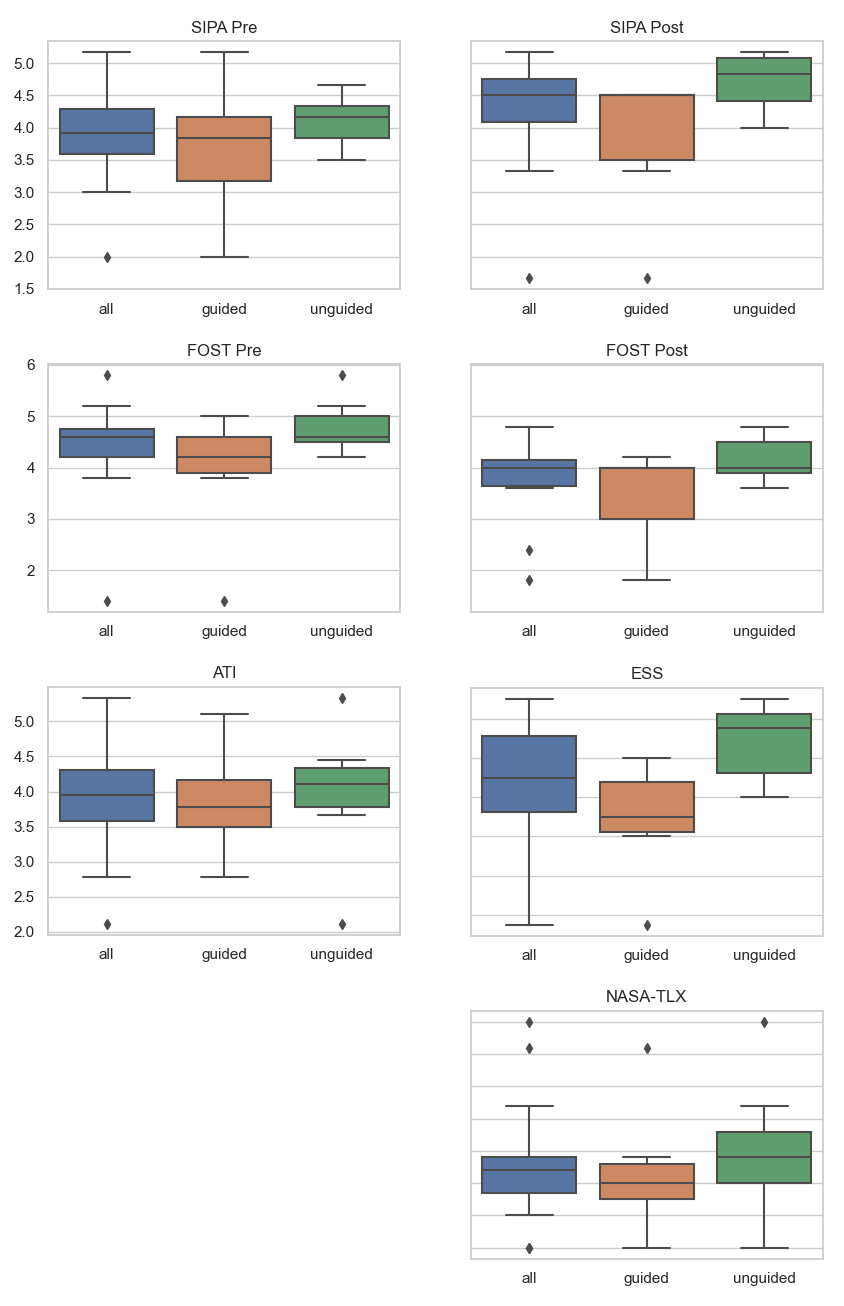
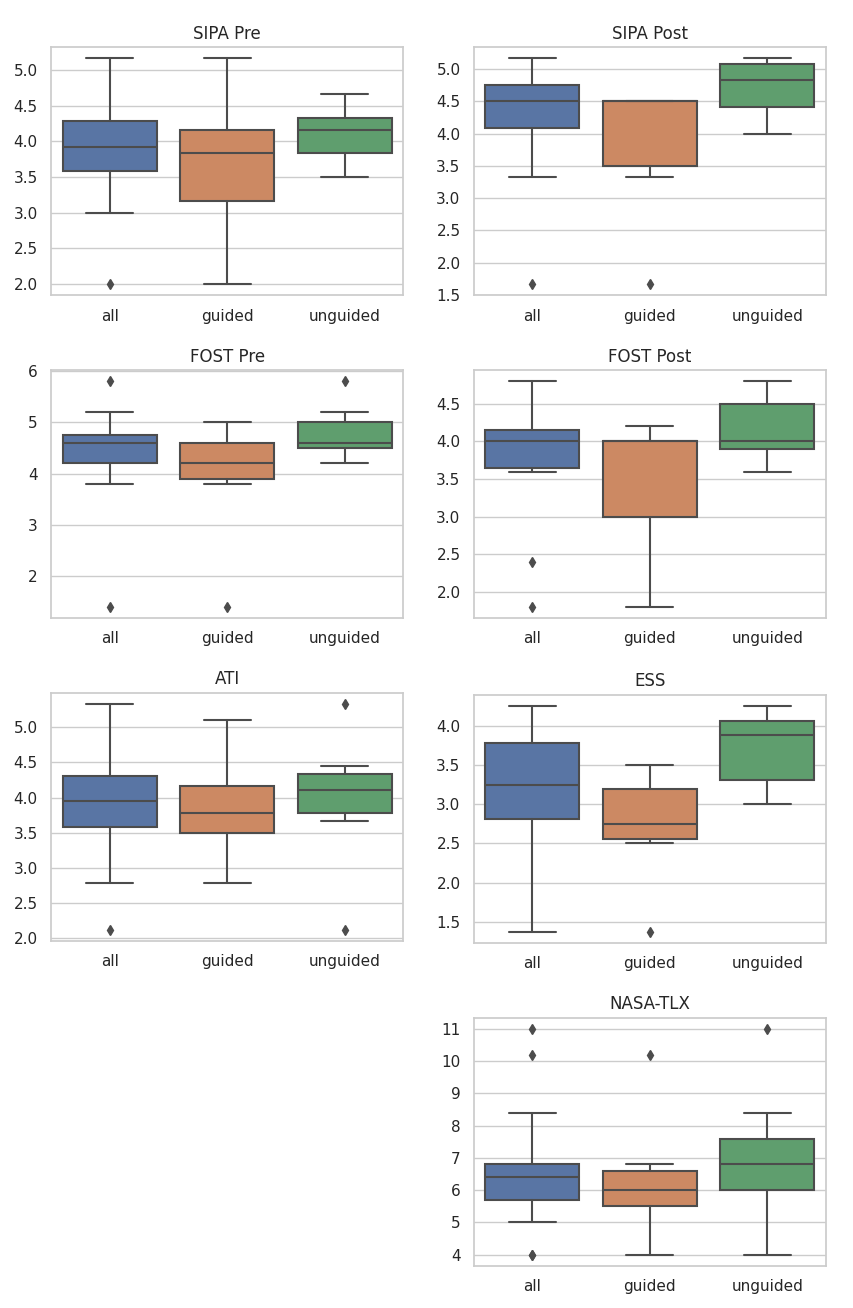
evaluation discussion progress

diff --git a/main.tex b/main.tex
@@ -969,9 +969,11 @@ The statistical analysis in \autoref{section:evaluation_results} has shown, that
 
 Comparing the between-subject effects, no statistical significance was found. However a tendency for lower effects on the guided group were observed compared to the unguided group. This leads to the question, whether an open interaction style leads to a higher perceived feeling of understandability. \textcite{sedig_role_2001} already explored the effects of scaffolding on cognition in learnware, and found that human-computer-interaction artifacts can extend or, inadvertently, limit human cognition and thought processes. There seems to be a connection between the cognitive load in a learning context and the between-subject effects observed in this evaluation. However, because of the missing significance, the effects of guidance and scaffolding in XAI should be further studied with a focus on the distinction between content-related versus non-content-related aspects of the GUI as proposed by \textcite{sedig_role_2001}. Based on these inconclusive results, research question Q3 cannot be clearly answered: Stronger effects in the unguided group suggest, that scaffolding and guidance can impede the perceived understandability - altough the small sample size might negatively influence the results of the variance analysis.
 
+While it is not possible to discriminate the effects of each explanation method used by this study design, the explanation satisfaction and the SIPA posttest score are also correlated. With the limitation of the missing discrimination of the explanation methods used, research question Q4 can be partially answered by the correlation between ESS and SIPA: The display of structured meta data, in addition to the image data, was part of most explanation methods (and the main focus of one method). This leads to the assumption that the presentation of meta data does significantly increase the users understanding of the AI model's operational range and performance. Referencing the qualitative data, many participants even whished for more meta data, such as clinical data of the patient.
+
 Interestingly ATI, a key facet of user personality, does not have any correlation with the other variables. Seemingly the tendency to actively engage in intensive technology interaction has no effects on the information conveyed to the user by the system, as neither SIPA or trust are correlated with it. Altough it is conceivable that the small sample, only consisting of young medical students with relatively high ATI scores, distort this relation.
 
-While it is not possible to discriminate the effects of each explanation method used by this study design, the explanation satisfaction and the SIPA posttest score are also correlated. With the limitation of the missing discrimination of the explanation methods used, research question Q4 can be partially answered by the correlation between ESS and SIPA: The display of structured meta data, in addition to the image data, was part of most explanation methods (and the main focus of one method). This leads to the assumption that the presentation of meta data does significantly increase the users understanding of the AI model's operational range and performance. Referencing the qualitative data, many participants even whished for more meta data, such as clinical data of the patient.
+Lastly the perceived workload was overall higher in the unguided group compared to the guided group. This indicates that the guidance helped with workload, even thought it does not correlate with neither SIPA or trust. However no meaningful measure of objective workload could be observed.
 
 \section{Conclusion on the Evaluation}
 \begin{comment}
